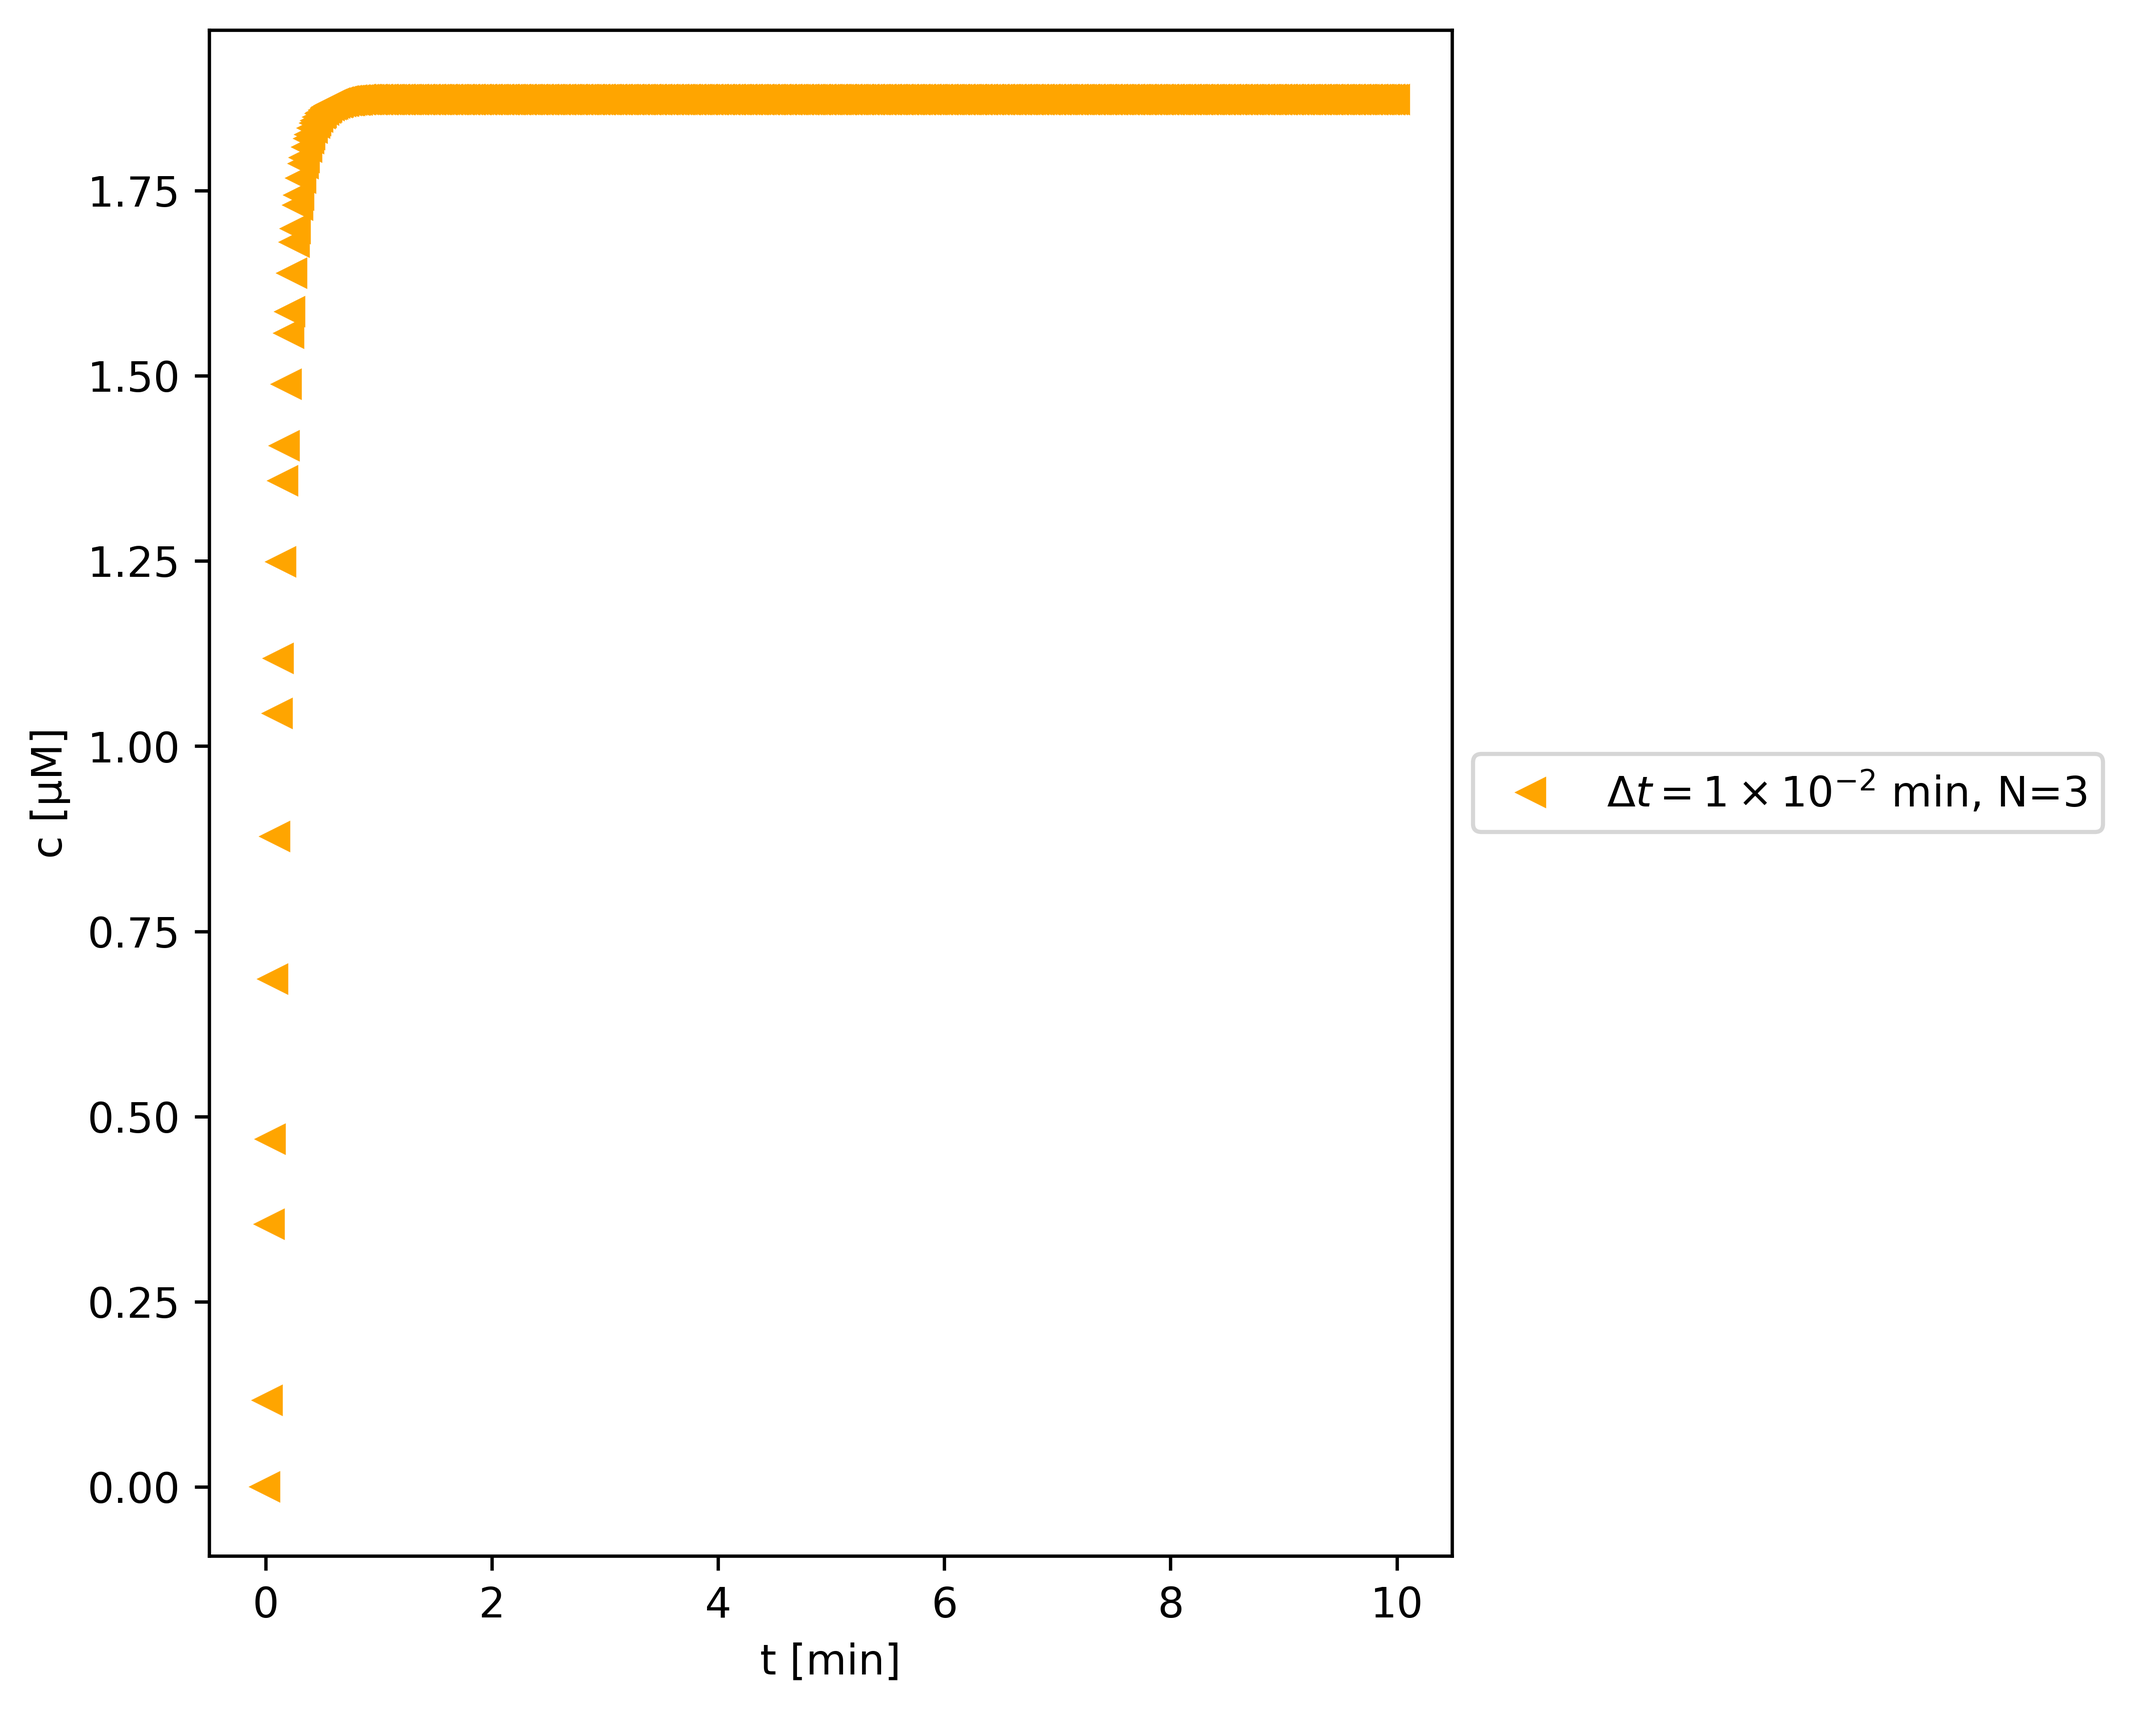
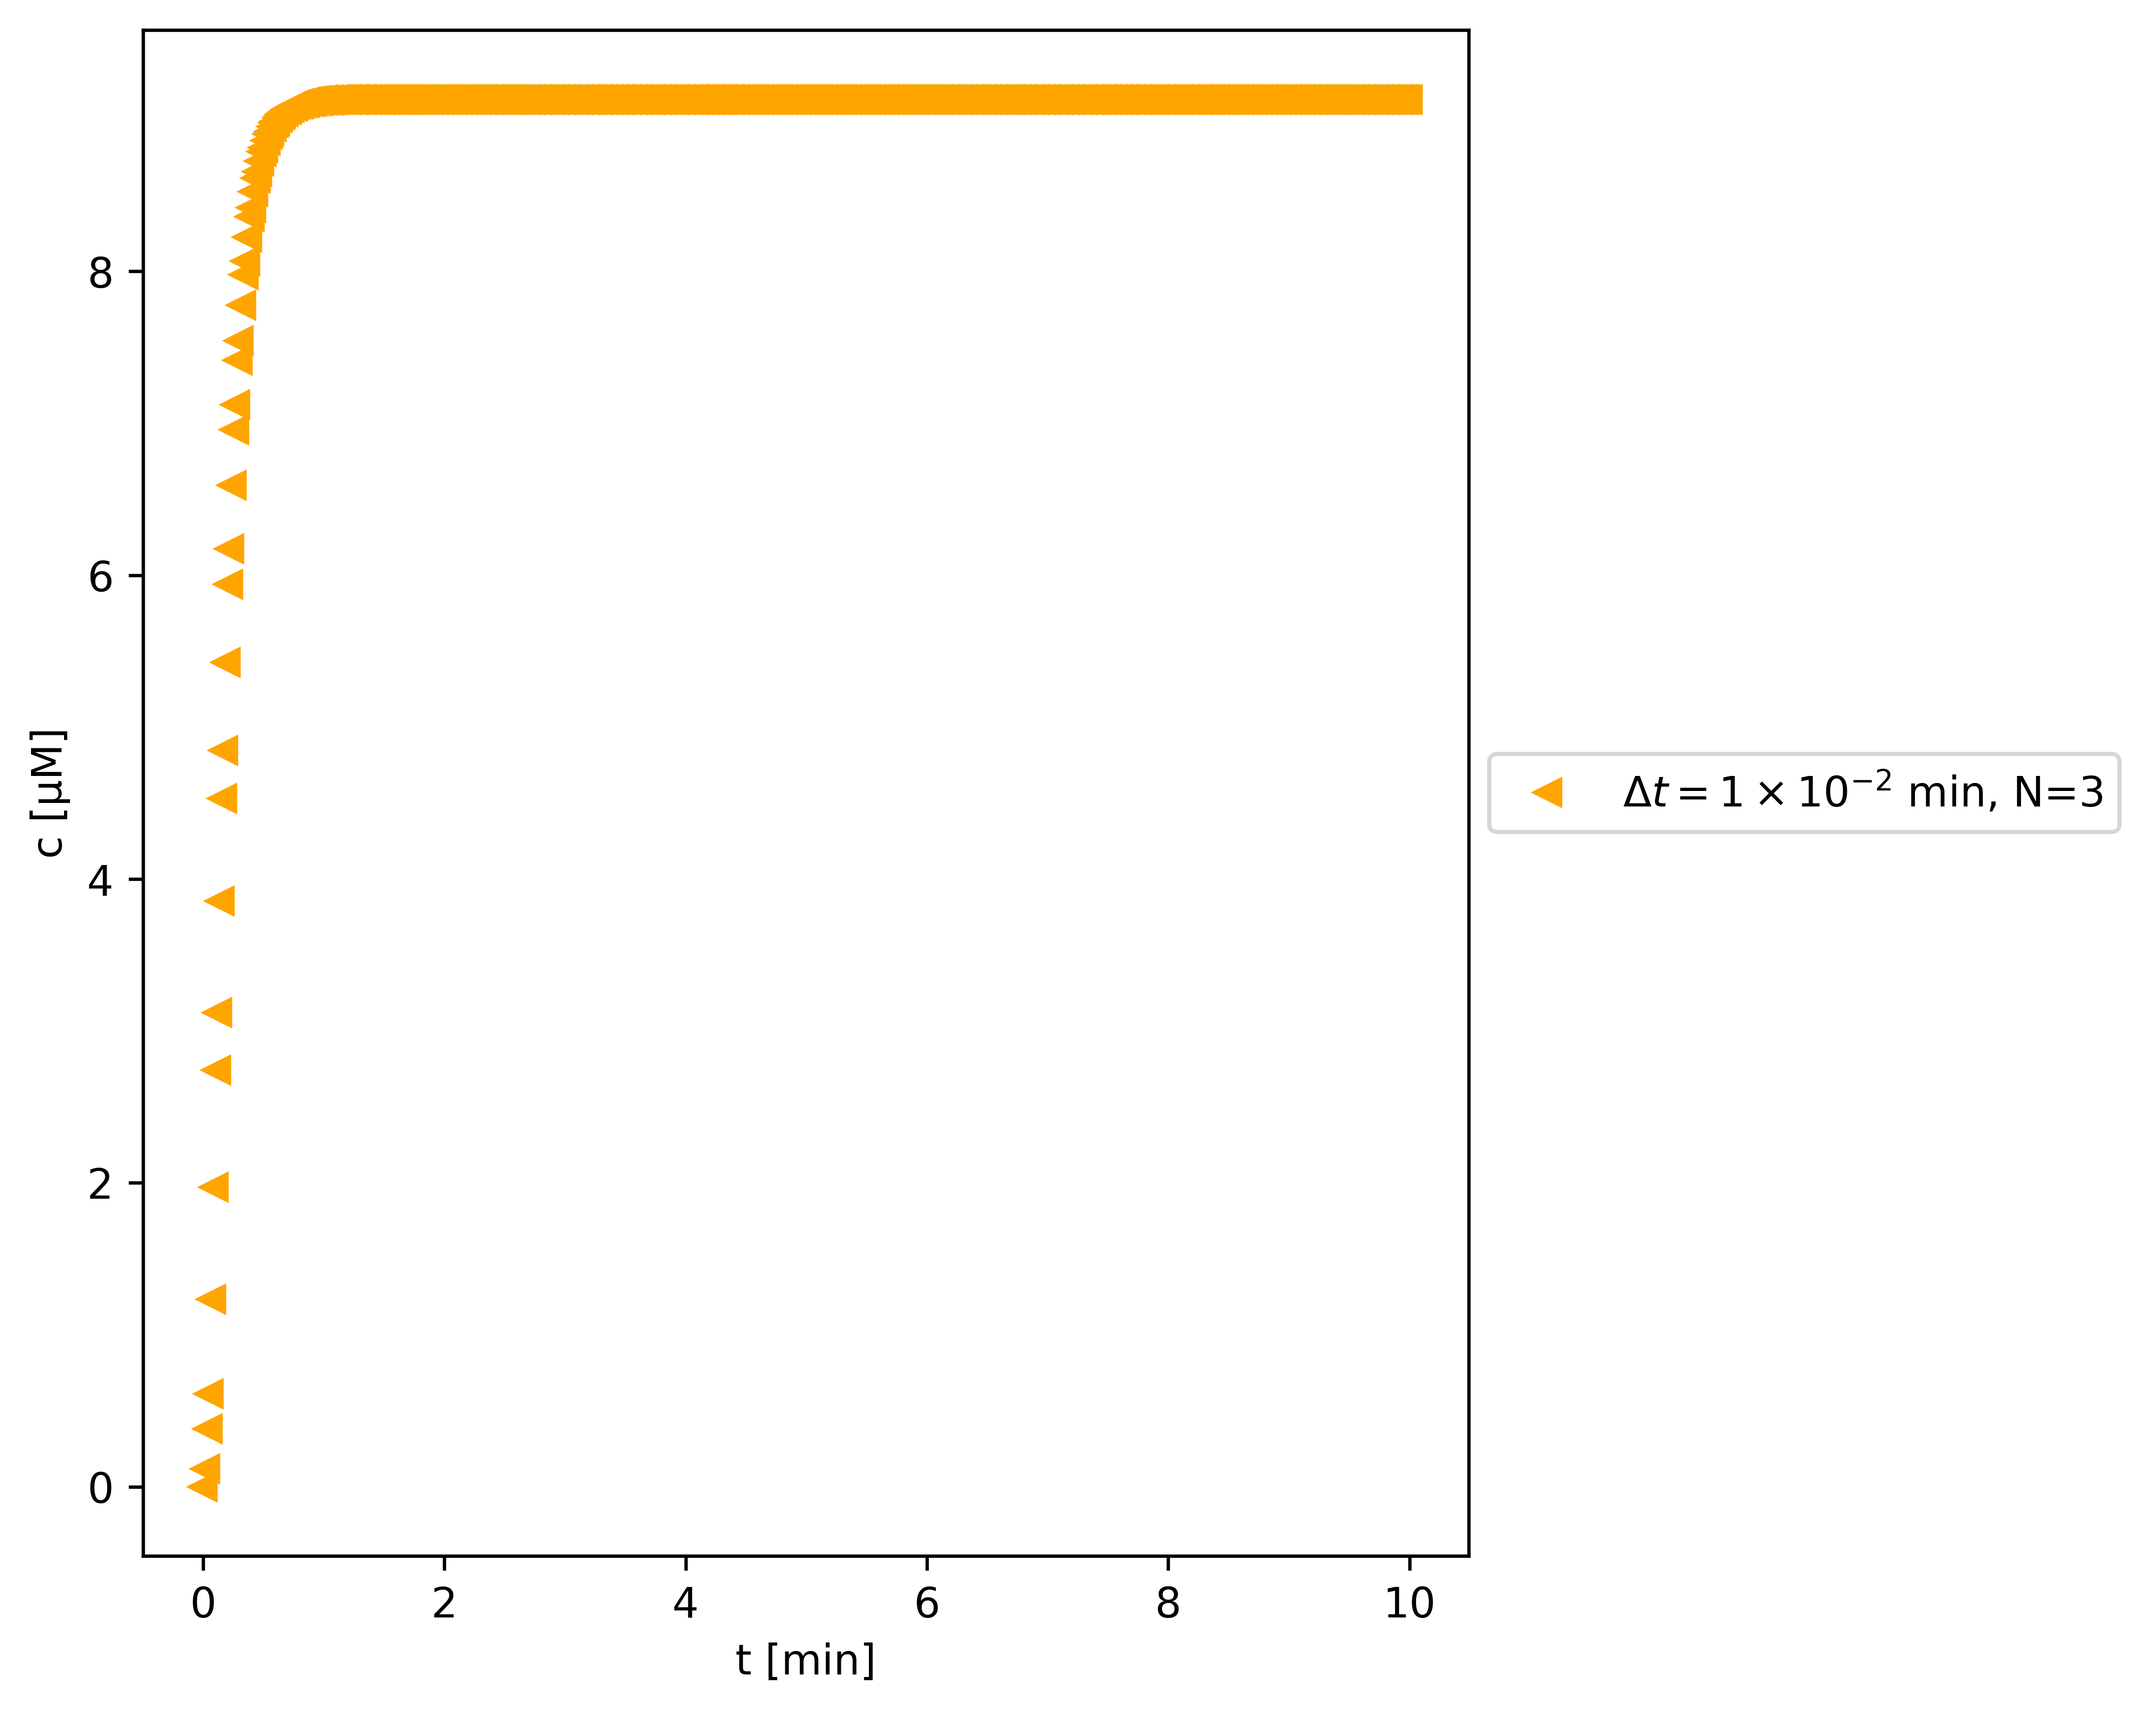
Revert to use previous set of parameters
We are back to 20µM / min

diff --git a/CompuTiX/Diffusion/SinglePointSink/main.cpp b/CompuTiX/Diffusion/SinglePointSink/main.cpp
@@ -130,7 +130,7 @@ int main( int argc, char** argv )
         option_adder( "N,num-voxels", "Number of voxels in one dimension [1]."
                                       "Must be an odd value to guarantee that there is one voxel at the center of the domain.",
                       cxxopts::value< Types::Count >()->default_value( "9" ) );
-        option_adder( "lambda", "Individual cell's uptake rate [mol/s].", cxxopts::value< Types::Scalar >()->default_value( "2.6666666666666673e-16" ) );
+        option_adder( "lambda", "Individual cell's uptake rate [mol/s].", cxxopts::value< Types::Scalar >()->default_value( "2.6666666666666673e-18" ) );
         option_adder( "output-dir", "Output directory.", cxxopts::value< std::string >()->default_value( "./" ) );
     }
 
